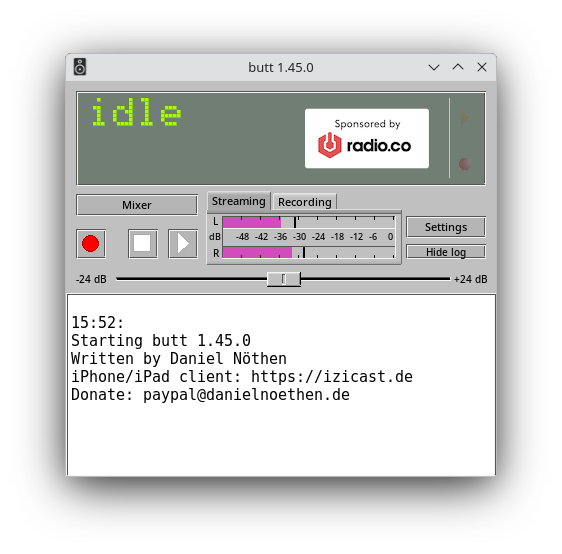
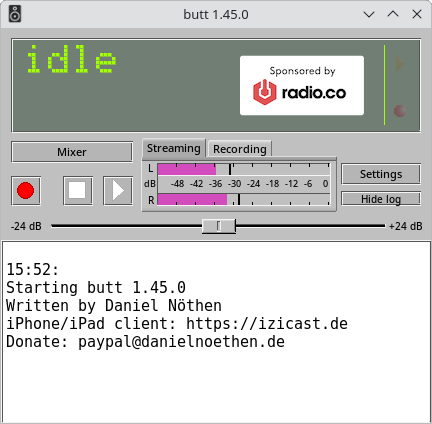
améliorations visuelles sur le tuto butt (#384)
* utilise les GUIlabel ! (beaucoup)
* utilise plus de balises de codes
* retire les deux points des listes* images: remove margins by cropping
* rec, play, stop : utilise des symboles

diff --git a/tutos/butt.md b/tutos/butt.md
@@ -28,16 +28,16 @@ Interface
 De haut en bas, l'interface montre :
 
 - Un écran de monitoring qui affiche **l'etat du stream**, **sa durée**, **son poid**,
-  **l'etat de l'enregistrement**, **sa durée** **et son poid**.
-  Il affiche aussi le nombre d'autiteur.ices connectées sur le flux.
-- Un bouton Mixer dans le cas ou on utilise **plusieurs interfaces audio** (usage avancé)
-- Un bouton **rec** pour enregistrer le son entrant
-- Un bouton **play** pour lancer la diffusion
-- Un bouton **stop** pour arreter les deux précédents.
+  **l'etat de l'enregistrement**, **sa durée** et **son poid**.
+  Il affiche aussi le nombre d'autiteur·ices connectées sur le flux.
+- Un bouton {guilabel}`Mixer` dans le cas ou on utilise **plusieurs interfaces audio** (usage avancé)
+- Un bouton {guilabel}`🔴` pour enregistrer le son entrant (*rec*).
+- Un bouton {guilabel}`▶` pour lancer la diffusion (*play*).
+- Un bouton {guilabel}`■` pour arreter les deux précédents (*stop*).
 - Un **vu-metre** avec deux onglets, qui affiche le niveau de sortie vers le stream et vers l'enregistrement.
 - Un slider de **gain** pour éviter la saturation (vu-metre dans le rouge)
-- Un boutton **settings** pour afficher la fenêtre de configuration
-- Un boutton **show log** pour afficher le journal d'evenement
+- Un boutton {guilabel}`Settings` pour afficher la fenêtre de configuration
+- Un boutton {guilabel}`Show log` pour afficher le journal d'evenement
   qui garde trace de toute opérations lancées et eventuels problemes
 
 
@@ -48,8 +48,8 @@ Pour permettre à BUTT d'envoyer le flux audio vers le serveur,
 il faut l'informer de l'adresse de ce serveur et le port à travers lequel il pourra acceder à Icecast.
 
 
-En appuyant sur le bouton **settings** on peut afficher la fenêtre des parametres.
-Dans l'ongle **Main** un encart **Server Settings** permet de choisir parmis différents serveurs enregistrés.
+En appuyant sur le bouton {guilabel}`Settings` on peut afficher la fenêtre des parametres.
+Dans l'onglet {guilabel}`Main` un encart {guilabel}`Server Settings` permet de choisir parmis différents serveurs enregistrés.
 
 ![main_configuration](butt/mainconf.png)
 
@@ -59,28 +59,28 @@ Les boutons en dessous permettent d'ajouter ou d'éditer un serveur enregistré.
 
 De haut en bas il faut remplir ces cases :
 
-- **Name** : il n'a pas d'incidence sur la connexion,
+- {guilabel}`Name` il n'a pas d'incidence sur la connexion,
   il vous permet de vous y retrouver parmis divers serveurs sur lesquels vous pourrier vouloir vous connecter.
-- **Type** : quel logiciel de streaming est installé sur le serveur visé. **icecast** chez club1.
-- **SSL/TLS** (Secure Sockets Layer and Transport Layer Security) : protocole d'encryption, **oui** sur club1.
-- **Adress** : il s'agit de l'adresse du serveur **club1.fr** en l'occurence
-- **Port** : le port sur lequel est installé Icecast. **8000** chez club1.
-- **Password** : le mot de passe de votre compte club1
-- **Icecast Mountpoint** : icecast peut diffuser plusieurs streams en simultané.
-  Chaque stream est identifié par un **mountpoint** (point de montage)
-  qui sera indiqué dans l'adresse via laquel l'auditeur.ice accedera au stream.
-  Ex : Mountpoint : labonne radio -> url : club1.fr:8000/labonneradio
-- **Icecast user** : votre nom d'utilisateur.ice club1.fr
-- **Use legacy icecast protocol** : laisser vide.
+- {guilabel}`Type` quel logiciel de streaming est installé sur le serveur visé. **Icecast** chez club1.
+- {guilabel}`SSL/TLS` (_Secure Sockets Layer_ / _Transport Layer Security_) : protocole de chiffrement, **oui** sur club1.
+- {guilabel}`Adress` il s'agit de l'adresse du serveur `club1.fr` en l'occurence
+- {guilabel}`Port` le port sur lequel est installé Icecast. `8000` chez club1.
+- {guilabel}`Password` le mot de passe de votre compte club1
+- {guilabel}`Icecast Mountpoint` icecast peut diffuser plusieurs streams en simultané.
+  Chaque stream est identifié par un _mountpoint_ (point de montage)
+  qui sera indiqué dans l'adresse via laquel l'auditeur·ice accedera au stream.
+  Ex : Mountpoint : `labonne radio` -> url : `club1.fr:8000/labonneradio`
+- {guilabel}`Icecast user` votre identifiant club1
+- {guilabel}`Use legacy icecast protocol` laisser vide.
 
-**Custom listener url** et **custom listener mountpoint** peuvent rester vide.
+{guilabel}`Custom listener url` et {guilabel}`custom listener mountpoint` peuvent rester vide.
 
 ### Adresse du flux
 
 D'apres ces informations de connection vous pouvez déduire l'adresse du stream audio,
 que vous pouvez écouter directement sur le navigateur ou bien intégrer à une balise `<audio>` sur un site web.
 
-    https://[adresseduserver]:[port]/[mountpoint]
+    https://ADRESSE_DU_SERVEUR:PORT/MOUNTPOINT
 
 Exemple :
 
@@ -102,31 +102,32 @@ ou pleins d'instruments et de microphones sur une table de mixage avec une carte
 
 Dans tous les cas il va falloir l'indiquer à BUTT.
 
-Dans l'onglet **Audio** de la page **Configure** vous pouvez indiquer l'**Audio device** que vous allez utiliser.
+Dans l'onglet {guilabel}`Audio` de la fenêtre de configuration
+vous pouvez indiquer l'appareil audio (_audio device_) que vous allez utiliser.
 
 ![audio_conf](butt/audioconf.png)
 
-- Channel mode : mono ou stéréo (gauche et droite).
-- Samplerate : fréquence d'échantillonage, (valeur par défault ok)
-- Update device : si vous ne trouvez pas votre instrument dans la liste,
+- {guilabel}`Channel mode` mono ou stéréo (gauche et droite).
+- {guilabel}`Samplerate` fréquence d'échantillonage, (valeur par défault ok)
+- {guilabel}`Update device` si vous ne trouvez pas votre instrument dans la liste,
   essayez d'actualiser la liste (ex: carte son branchée après l'allumage de BUTT)
-- Primary audio device : Selectionner sa carte son, (Attention à bien installer le pilote).
+- {guilabel}`Primary audio device` Selectionner sa carte son, (Attention à bien installer le pilote).
   Il est possible parfois de selectionner le microphone interne et même parfois de capturer le son de l'ordinateur
   (utile pour une emission musicale sans voix ou de rediffusion)
 
-Il est possible de brancher plusieurs interfaces audio/ cartes son sur BUTT.
+Il est possible de brancher plusieurs interfaces audio / cartes son sur BUTT.
 Le Mixer permet de mélanger les deux signaux (usage avancé).
 
 ```{warning}
 Pensez à tester le son depuis un navigateur pour s'assurer que le flux fonctionne correctement :
 un mauvais paramétrage des interfaces audio ne se verra pas de votre côté
-mais peut rendre l'emission inaudible pour les auditeur.ice.s
+mais peut rendre l'emission inaudible pour les auditeur·ice·s
 ```
 
 Sur cette même page, vous pouvez indiquer le codec de compression de l'audio de votre stream.
 
 ```{note}
-Nous conseillons **mp3** car les navigateur Apple risquent de boycotter le **ogg/vorbis** et vous perdez tous les iphones...
+Nous conseillons `mp3` car les navigateur Apple risquent de boycotter le `ogg/vorbis` et vous perdez tous les iphones...
 Le **bitrate** par défault est convenable (sur le fil du rasoir entre qualité et legerté...).
 ```
 
@@ -140,14 +141,14 @@ Enregistrement du flux
 
 Pour garder une trace de votre emission live
 vous pouvez utiliser BUTT pour enregistrer votre emission
-en appuyant sur le bouton REC rouge avant de lancer le stream.
+en appuyant sur le bouton {guilabel}`🔴` (*rec*) avant de lancer le stream.
 
-La page **recording** de la fenetre de **configuration** permet de parametrer cet enregistrement
+L'onglet {guilabel}`Recording` de la fenetre de configuration permet de paramétrer cet enregistrement
 (en plus des options de compression et qualité citée plus haut).
 
 ![recording_conf](butt/recconf.png)
 
-La valeur par défault dans **Record File Name:** montre une nomanclature
+La valeur par défault dans {guilabel}`Record File Name` montre une nomanclature
 qui permet de generer des noms de fichiers dynamiques qui integrent la date et l'heure.
 
     rec_%Y%m%d-%H%M%S.mp3
@@ -165,14 +166,14 @@ Donnera par exemple
     labonneradio_saison1_2026/11/06-23:12:41.mp3
 
 ```{tip}
-Ce systeme de naming dynamique vous permet de ne pas écraser des fichiers qui ont le même nom.
+Ce systeme de nommage dynamique vous permet de ne pas écraser des fichiers qui ont le même nom.
 ```
 
-Le bouton **split file** coupe et relance directement l'enregistrement.
-Ca peut etre utile quand on a plus de batterie sur un ordinateur
+Le bouton {guilabel}`Split File` coupe et relance directement l'enregistrement.
+Ça peut etre utile quand on a plus de batterie sur un ordinateur
 et qu'on veut s'assurer de bien garder une partie de l'enregistrement.
 Ou bien pour séquencer des chapitres d'une emission pour faciliter le travail d'archivage ensuite.
-Il est possible d'automatiser cette coupure pour avoir des fichiers correspondant à Ychaque heure ou demi-heure de diffusion.
+Il est possible d'automatiser cette coupure pour avoir des fichiers correspondant à chaque heure ou demi-heure de diffusion.
 
 Information textuelles
 ----------------------
@@ -180,10 +181,9 @@ Information textuelles
 Il est possibe de passer d'autre données que le flux audio comme le nom de l'emission en cours, le titre d'une musique.
 Ces infos peuvent être réccupérées sur la page web avec du javascript.
 
+```{note}
 Ces options doivent être experimentées afin d'être mieux documentées.
-
-![stream](butt/streamconf.png)
-
+```
 
 GUI
 ---
